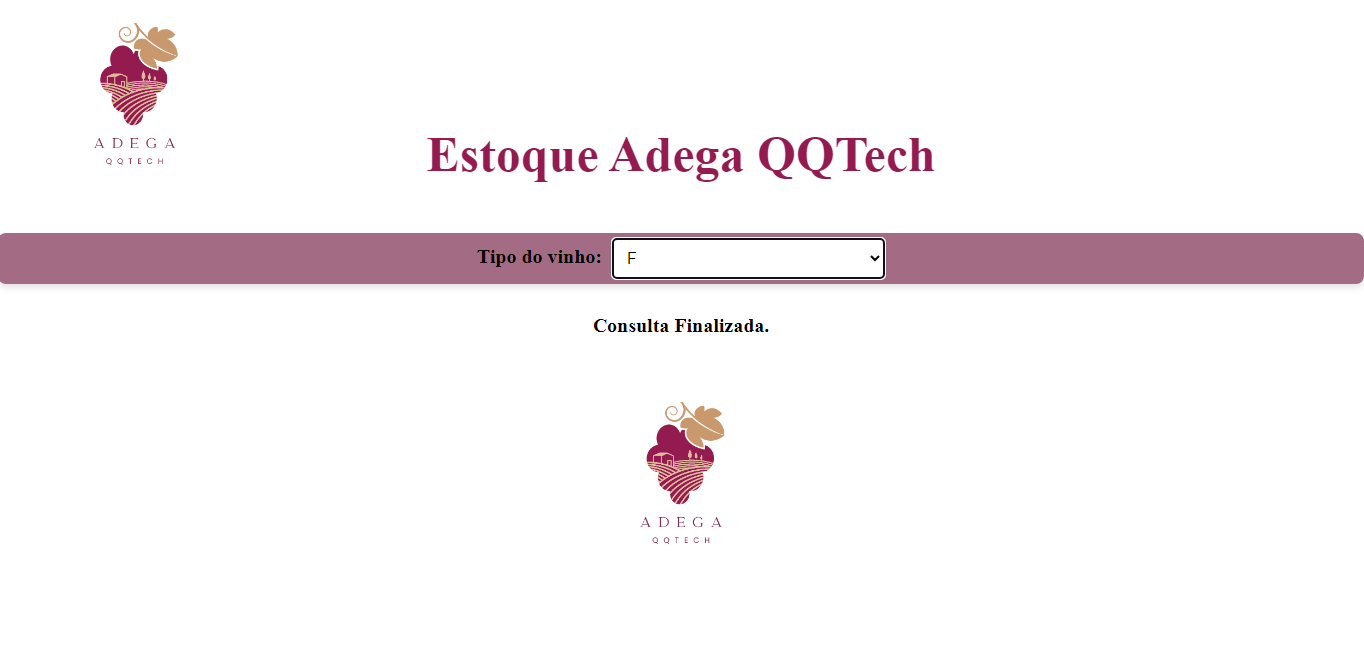
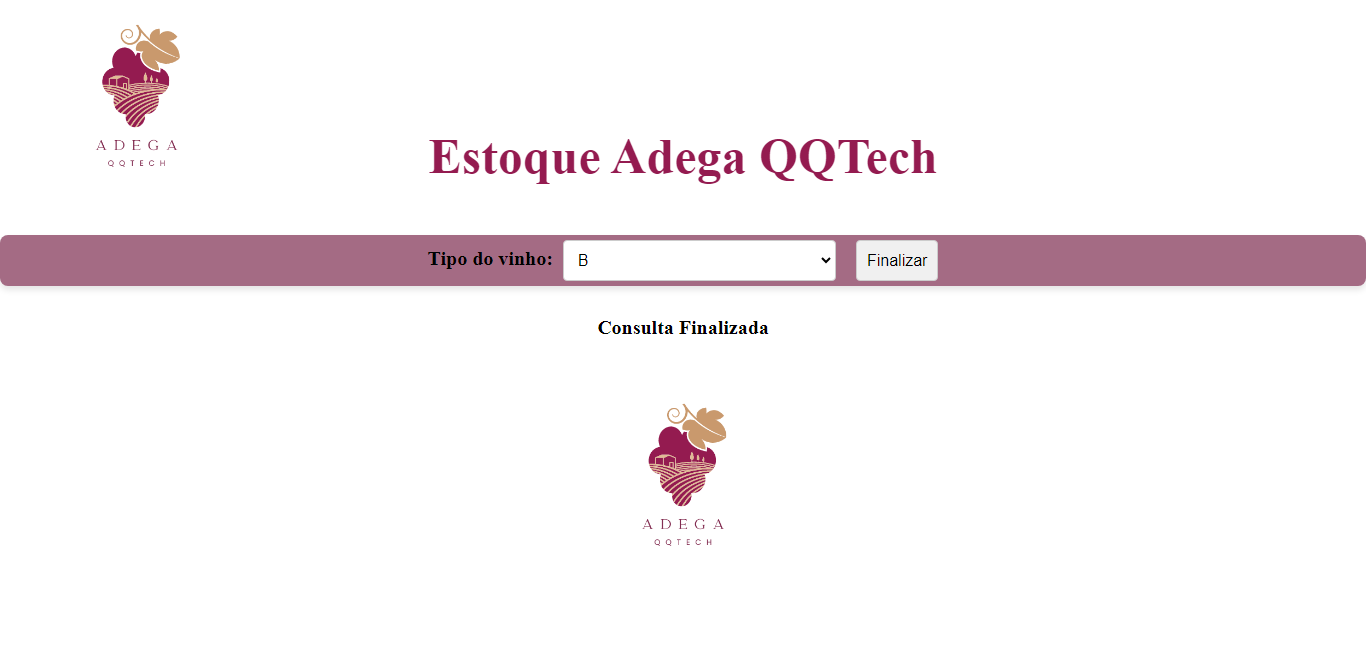
ajuste no readme

diff --git a/README.MD b/README.MD
@@ -37,6 +37,8 @@
 <img src='assets/tela-branco.png' alt='tela-branco'>
 <p>Tela para consulta de estoque do vinho Rosé com entrada 'R':</p>
 <img src='assets/tela-rose.png' alt='tela-rose'>
+<p>Tela para finalizar a consulta de estoque:</p>
+<img src='assets/tela-finalizar.png' alt='tela-finalizar'>
 
 <br><br>
 <a href="https://github.com/MBTGrazielle/AdegaQQtech" target="_blank"><img src="https://img.shields.io/badge/-Github-%230077B5?style=for-the-badge&logo=github&logoColor=white" target="_blank"></a>
